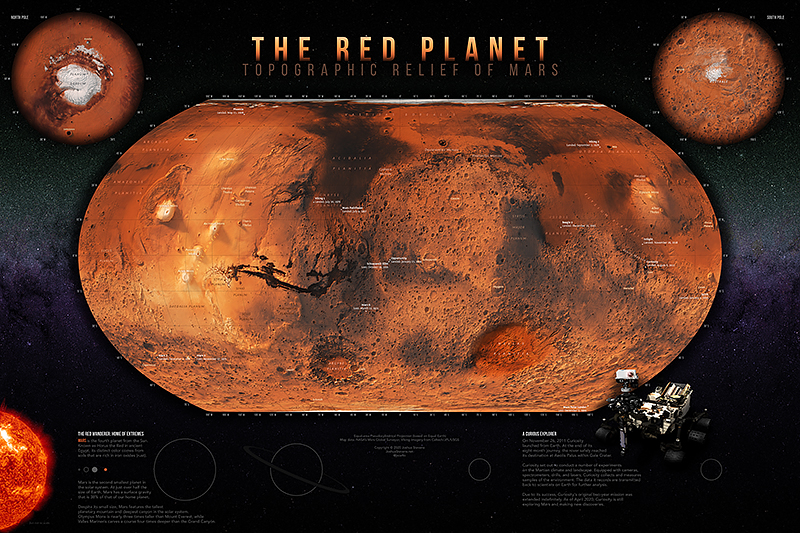
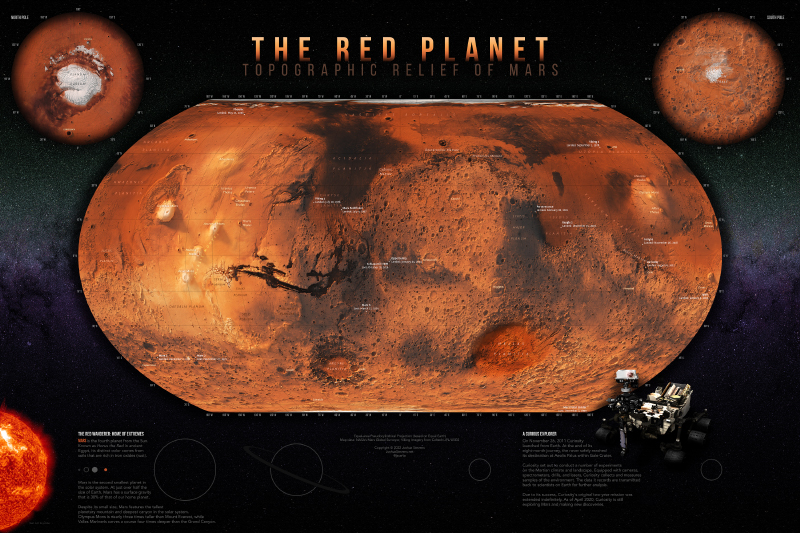
Updated to include Perseverance

diff --git a/blog/the-red-planet/index.html b/blog/the-red-planet/index.html
@@ -85,12 +85,14 @@
 
 <p>Sometime last year I decided to figuratively leave Earth and see what&rsquo;s going on with our skyward neighbor.</p>
 
+<h5 id="span-class-badge-badge-secondary-update-span-now-includes-perseverance"><span class="badge badge-secondary">Update!</span> Now includes Perseverance!</h5>
+
 <h3 id="the-poster">The Poster</h3>
 
 <div class="fullImage">
 <a href="/images/mars_poster_lrg.jpg"><img src="/images/mars_poster.jpg" /></a>
 <p>With an emphasis on the terrain, the poster features stunning views of Mars, including subsets for the polar regions. Artificial objects of Earthly origin, like landers and rovers, are highlighted on the landscape.
-<br /><strong><a href="/images/mars_poster_lrg.jpg">Download the full size version.</a></strong></p>
+<br /><strong><a href="/images/mars_poster_lrg.jpg">Download a larger version.</a></strong></p>
 </div>
 
 <p>The topography of Mars is truly something else. Despite being so small—it is the second smallest planet—Mars is home to the tallest planetary mountain and deepest canyon in our solar system.</p>
@@ -167,7 +169,7 @@
           </ul>
           </div>
           <div class="col-sm-12 col-md-2 footer-mid"><a href="https://twitter.com/jscarto"><i class="fa fa-twitter fa-2x"></i></a> &nbsp; <a href="https://www.linkedin.com/in/jscarto/"><i class="fa fa-linkedin fa-2x"></i></a></div>
-          <div class="col-sm-12 col-md-5 footer-right">© 2021 Joshua Stevens</div>
+          <div class="col-sm-12 col-md-5 footer-right">© 2022 Joshua Stevens</div>
         </div>
       </div>
     </footer>

diff --git a/blog/graveyards-of-the-contiguous-usa/index.html b/blog/graveyards-of-the-contiguous-usa/index.html
@@ -162,7 +162,7 @@ If you like this graphic, it is <a href="https://www.redbubble.com/people/jscart
           </ul>
           </div>
           <div class="col-sm-12 col-md-2 footer-mid"><a href="https://twitter.com/jscarto"><i class="fa fa-twitter fa-2x"></i></a> &nbsp; <a href="https://www.linkedin.com/in/jscarto/"><i class="fa fa-linkedin fa-2x"></i></a></div>
-          <div class="col-sm-12 col-md-5 footer-right">© 2021 Joshua Stevens</div>
+          <div class="col-sm-12 col-md-5 footer-right">© 2022 Joshua Stevens</div>
         </div>
       </div>
     </footer>

diff --git a/blog/index.html b/blog/index.html
@@ -286,7 +286,7 @@ Choosing the ten best from such list is no small task. And it inevitably leaves 
           </ul>
           </div>
           <div class="col-sm-12 col-md-2 footer-mid"><a href="https://twitter.com/jscarto"><i class="fa fa-twitter fa-2x"></i></a> &nbsp; <a href="https://www.linkedin.com/in/jscarto/"><i class="fa fa-linkedin fa-2x"></i></a></div>
-          <div class="col-sm-12 col-md-5 footer-right">© 2021 Joshua Stevens</div>
+          <div class="col-sm-12 col-md-5 footer-right">© 2022 Joshua Stevens</div>
         </div>
       </div>
     </footer>

diff --git a/blog/turning-on-the-lights/index.html b/blog/turning-on-the-lights/index.html
@@ -346,7 +346,7 @@ City lights around the Great Lakes shine brightly under the relatively clear ski
           </ul>
           </div>
           <div class="col-sm-12 col-md-2 footer-mid"><a href="https://twitter.com/jscarto"><i class="fa fa-twitter fa-2x"></i></a> &nbsp; <a href="https://www.linkedin.com/in/jscarto/"><i class="fa fa-linkedin fa-2x"></i></a></div>
-          <div class="col-sm-12 col-md-5 footer-right">© 2021 Joshua Stevens</div>
+          <div class="col-sm-12 col-md-5 footer-right">© 2022 Joshua Stevens</div>
         </div>
       </div>
     </footer>

diff --git a/blog/moving-from-wordpress-to-middleman/index.html b/blog/moving-from-wordpress-to-middleman/index.html
@@ -194,7 +194,7 @@ page &quot;/404.html&quot;, :directory_index =&gt; false
           </ul>
           </div>
           <div class="col-sm-12 col-md-2 footer-mid"><a href="https://twitter.com/jscarto"><i class="fa fa-twitter fa-2x"></i></a> &nbsp; <a href="https://www.linkedin.com/in/jscarto/"><i class="fa fa-linkedin fa-2x"></i></a></div>
-          <div class="col-sm-12 col-md-5 footer-right">© 2021 Joshua Stevens</div>
+          <div class="col-sm-12 col-md-5 footer-right">© 2022 Joshua Stevens</div>
         </div>
       </div>
     </footer>

diff --git a/cartography/make-a-bivariate-choropleth-map/index.html b/cartography/make-a-bivariate-choropleth-map/index.html
@@ -368,7 +368,7 @@ END
           </ul>
           </div>
           <div class="col-sm-12 col-md-2 footer-mid"><a href="https://twitter.com/jscarto"><i class="fa fa-twitter fa-2x"></i></a> &nbsp; <a href="https://www.linkedin.com/in/jscarto/"><i class="fa fa-linkedin fa-2x"></i></a></div>
-          <div class="col-sm-12 col-md-5 footer-right">© 2021 Joshua Stevens</div>
+          <div class="col-sm-12 col-md-5 footer-right">© 2022 Joshua Stevens</div>
         </div>
       </div>
     </footer>

diff --git a/about/index.html b/about/index.html
@@ -132,7 +132,7 @@
           </ul>
           </div>
           <div class="col-sm-12 col-md-2 footer-mid"><a href="https://twitter.com/jscarto"><i class="fa fa-twitter fa-2x"></i></a> &nbsp; <a href="https://www.linkedin.com/in/jscarto/"><i class="fa fa-linkedin fa-2x"></i></a></div>
-          <div class="col-sm-12 col-md-5 footer-right">© 2021 Joshua Stevens</div>
+          <div class="col-sm-12 col-md-5 footer-right">© 2022 Joshua Stevens</div>
         </div>
       </div>
     </footer>

diff --git a/blog/2020-best-visualization-stories/index.html b/blog/2020-best-visualization-stories/index.html
@@ -239,7 +239,7 @@
           </ul>
           </div>
           <div class="col-sm-12 col-md-2 footer-mid"><a href="https://twitter.com/jscarto"><i class="fa fa-twitter fa-2x"></i></a> &nbsp; <a href="https://www.linkedin.com/in/jscarto/"><i class="fa fa-linkedin fa-2x"></i></a></div>
-          <div class="col-sm-12 col-md-5 footer-right">© 2021 Joshua Stevens</div>
+          <div class="col-sm-12 col-md-5 footer-right">© 2022 Joshua Stevens</div>
         </div>
       </div>
     </footer>

diff --git a/blog/3d-models-from-nasa/index.html b/blog/3d-models-from-nasa/index.html
@@ -149,7 +149,7 @@
           </ul>
           </div>
           <div class="col-sm-12 col-md-2 footer-mid"><a href="https://twitter.com/jscarto"><i class="fa fa-twitter fa-2x"></i></a> &nbsp; <a href="https://www.linkedin.com/in/jscarto/"><i class="fa fa-linkedin fa-2x"></i></a></div>
-          <div class="col-sm-12 col-md-5 footer-right">© 2021 Joshua Stevens</div>
+          <div class="col-sm-12 col-md-5 footer-right">© 2022 Joshua Stevens</div>
         </div>
       </div>
     </footer>

diff --git a/blog/accommodating-big-data-in-visual-analytics/index.html b/blog/accommodating-big-data-in-visual-analytics/index.html
@@ -138,7 +138,7 @@
           </ul>
           </div>
           <div class="col-sm-12 col-md-2 footer-mid"><a href="https://twitter.com/jscarto"><i class="fa fa-twitter fa-2x"></i></a> &nbsp; <a href="https://www.linkedin.com/in/jscarto/"><i class="fa fa-linkedin fa-2x"></i></a></div>
-          <div class="col-sm-12 col-md-5 footer-right">© 2021 Joshua Stevens</div>
+          <div class="col-sm-12 col-md-5 footer-right">© 2022 Joshua Stevens</div>
         </div>
       </div>
     </footer>

diff --git a/blog/big-data-social-science-poster-session/index.html b/blog/big-data-social-science-poster-session/index.html
@@ -140,7 +140,7 @@
           </ul>
           </div>
           <div class="col-sm-12 col-md-2 footer-mid"><a href="https://twitter.com/jscarto"><i class="fa fa-twitter fa-2x"></i></a> &nbsp; <a href="https://www.linkedin.com/in/jscarto/"><i class="fa fa-linkedin fa-2x"></i></a></div>
-          <div class="col-sm-12 col-md-5 footer-right">© 2021 Joshua Stevens</div>
+          <div class="col-sm-12 col-md-5 footer-right">© 2022 Joshua Stevens</div>
         </div>
       </div>
     </footer>

diff --git a/blog/big-data-social-science-video-demo-senseplace2/index.html b/blog/big-data-social-science-video-demo-senseplace2/index.html
@@ -146,7 +146,7 @@
           </ul>
           </div>
           <div class="col-sm-12 col-md-2 footer-mid"><a href="https://twitter.com/jscarto"><i class="fa fa-twitter fa-2x"></i></a> &nbsp; <a href="https://www.linkedin.com/in/jscarto/"><i class="fa fa-linkedin fa-2x"></i></a></div>
-          <div class="col-sm-12 col-md-5 footer-right">© 2021 Joshua Stevens</div>
+          <div class="col-sm-12 col-md-5 footer-right">© 2022 Joshua Stevens</div>
         </div>
       </div>
     </footer>
